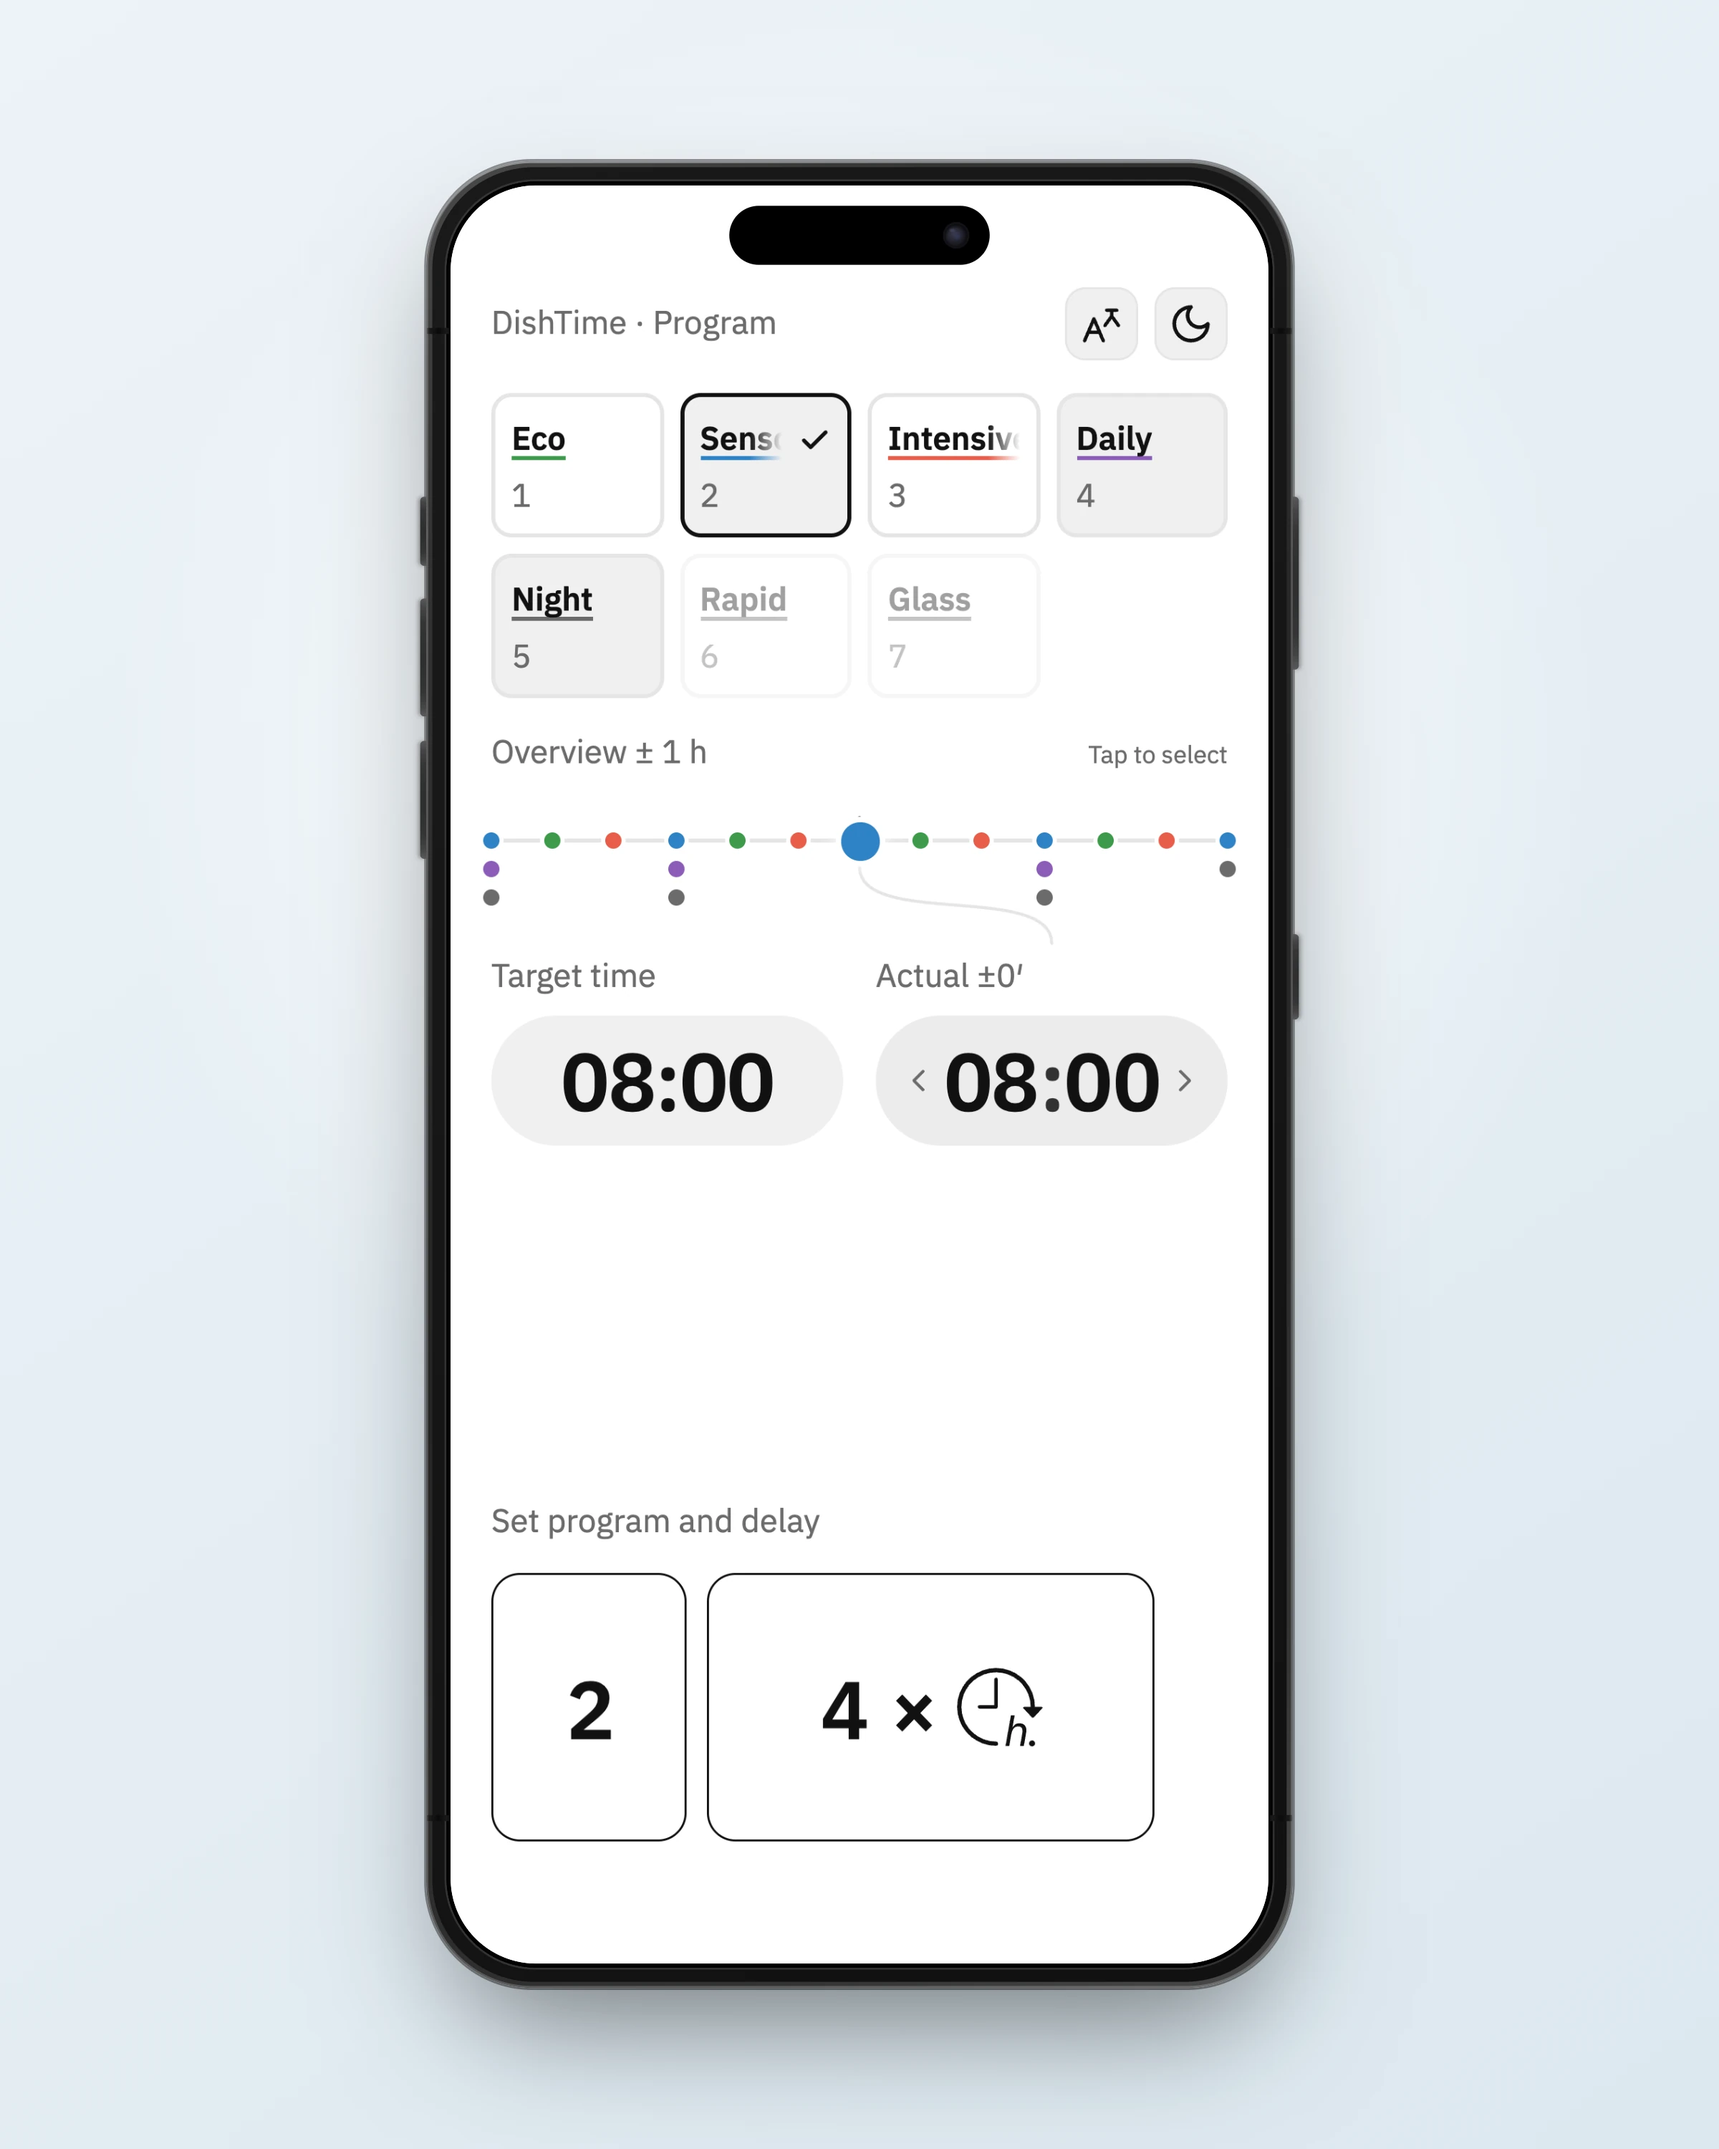
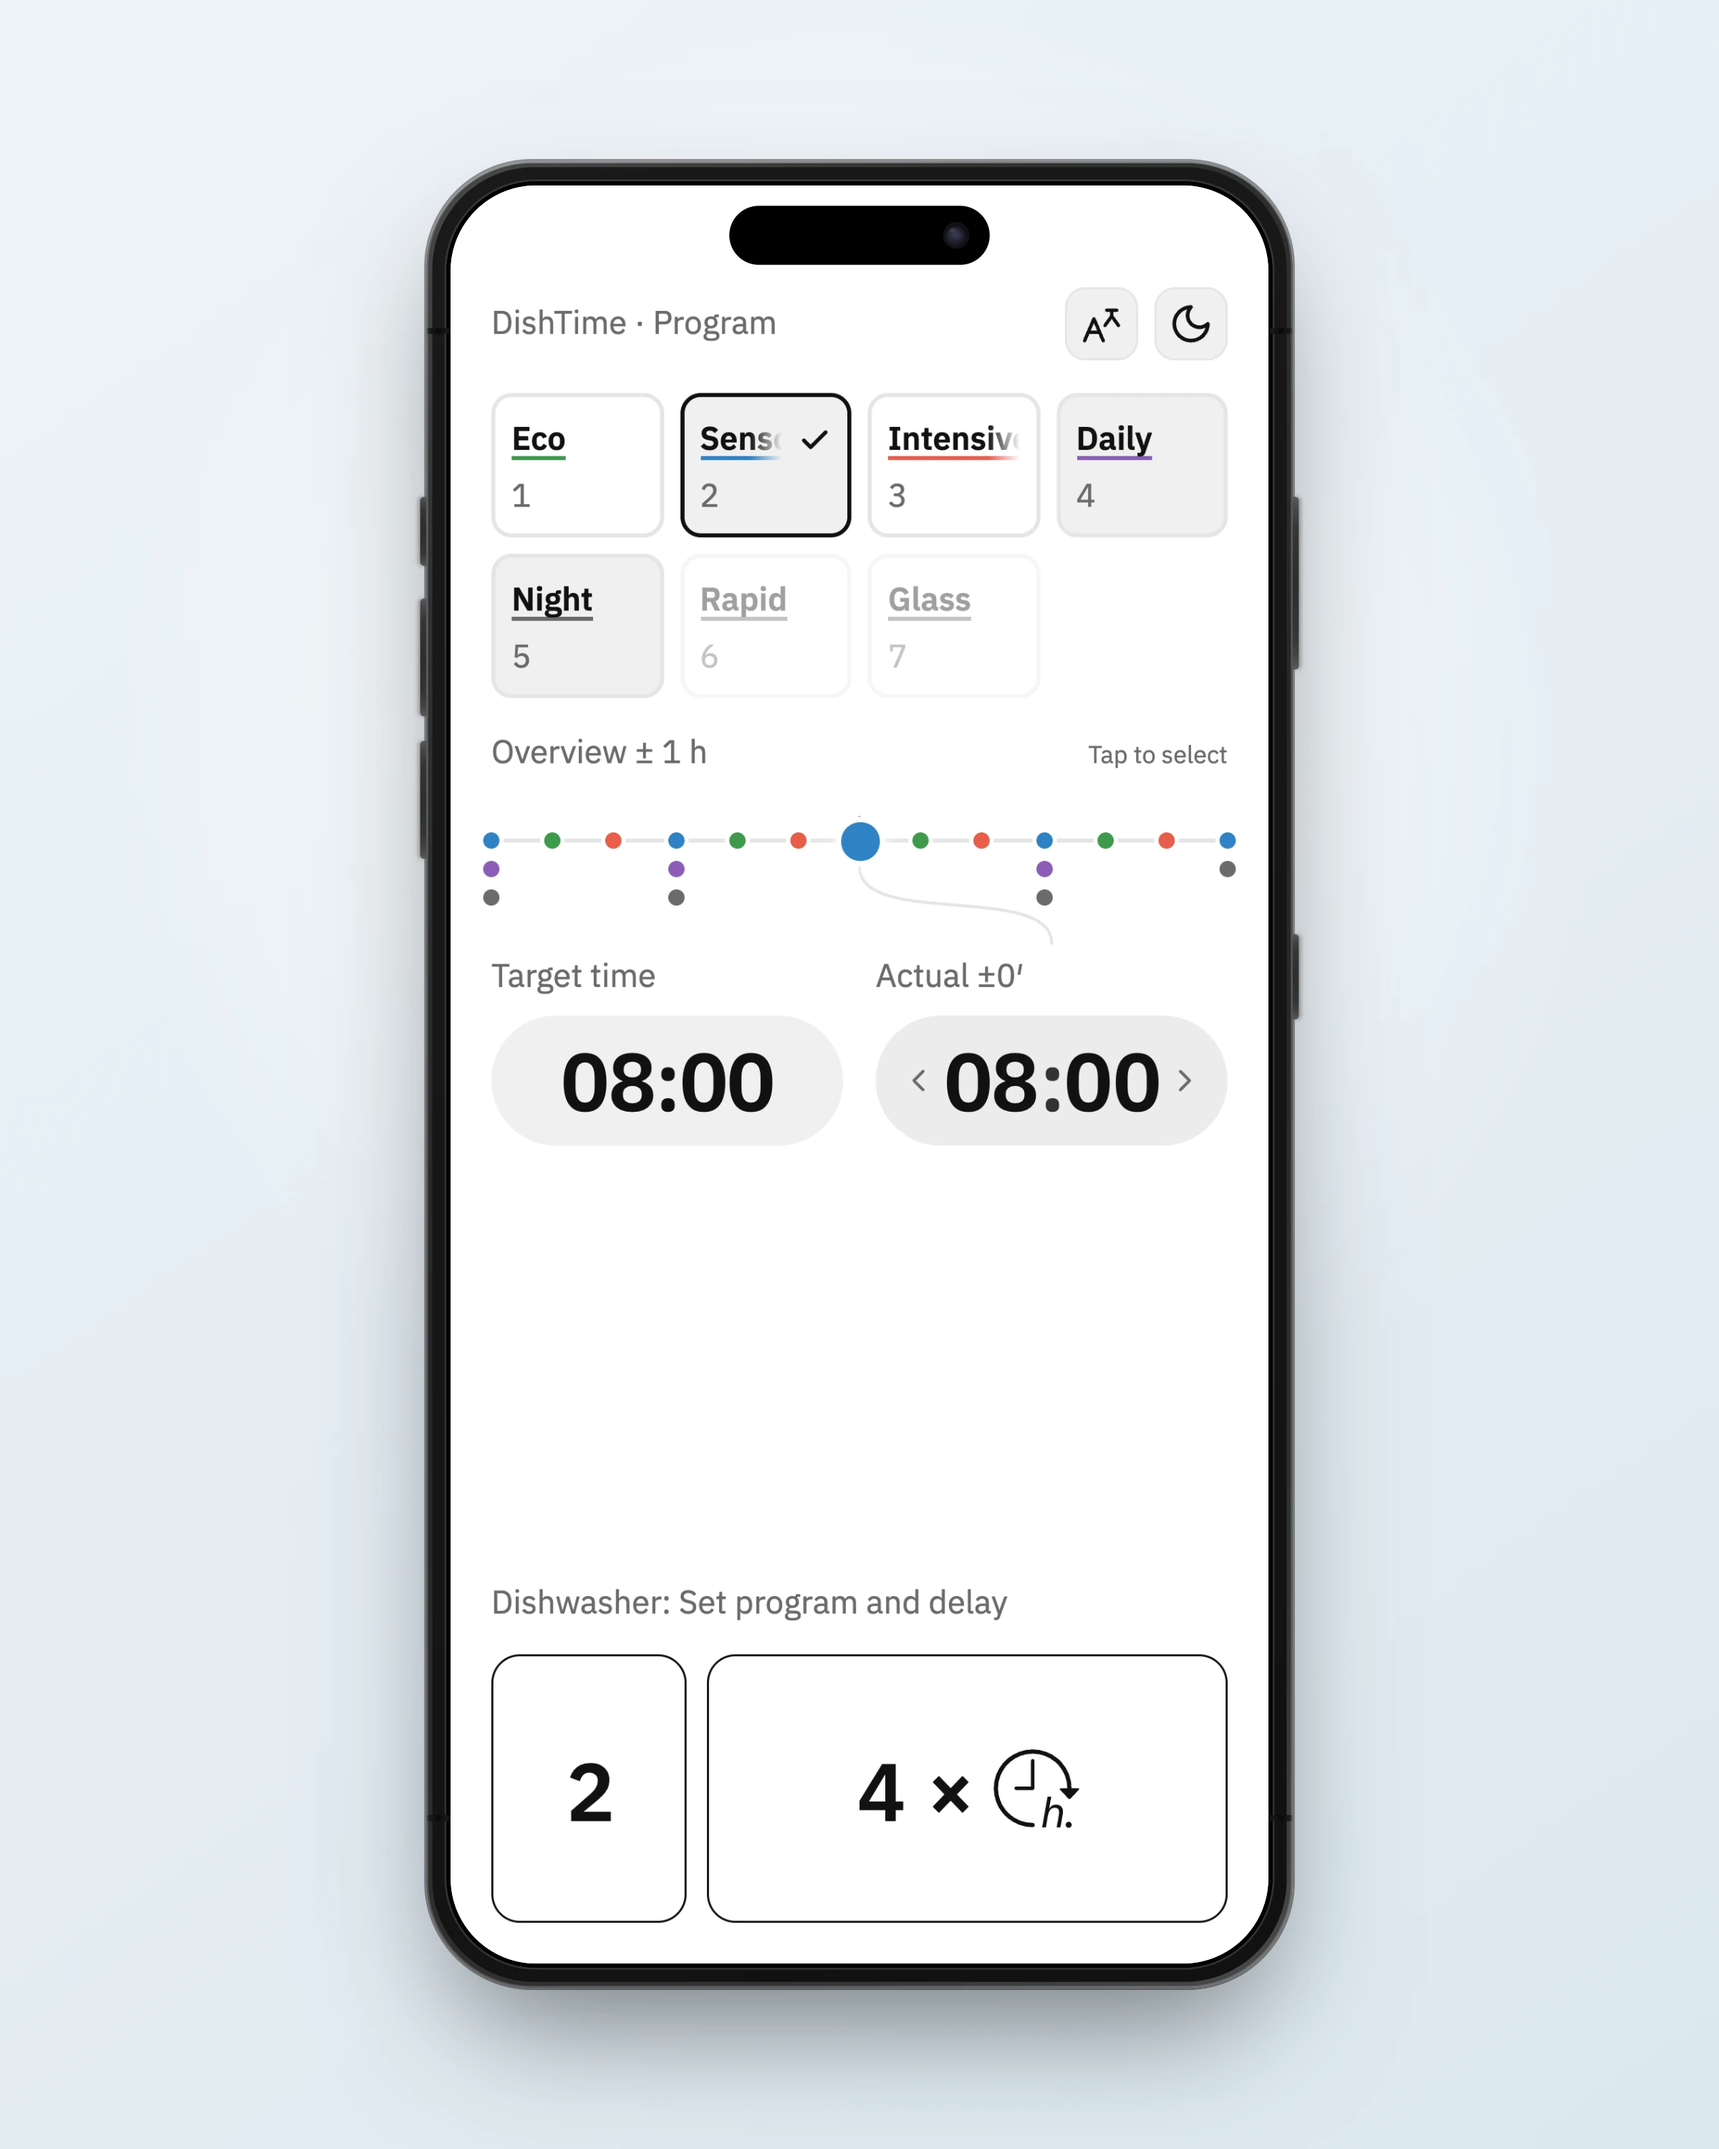
Update README configuration notes and mockups

Changed region(s): [[0.2812, 0.744, 0.625, 0.868], [0.2812, 0.682, 0.4688, 0.713]]

diff --git a/README.md b/README.md
@@ -21,4 +21,4 @@ DishTime turns a desired finish time into the right delayed-start setting for a 
 
 DishTime is a small client-side web app for modern mobile and desktop browsers. It needs no account or backend and can be added to a phone's home screen.
 
-The included machine profile is configured for a Bauknecht dishwasher. Program durations and delay steps can be adapted in [`machine-config.js`](machine-config.js).
+The included profile is configured for a Bauknecht dishwasher. Machine data lives in [`machine-config.js`](machine-config.js); general app settings live in [`app-config.js`](app-config.js).
